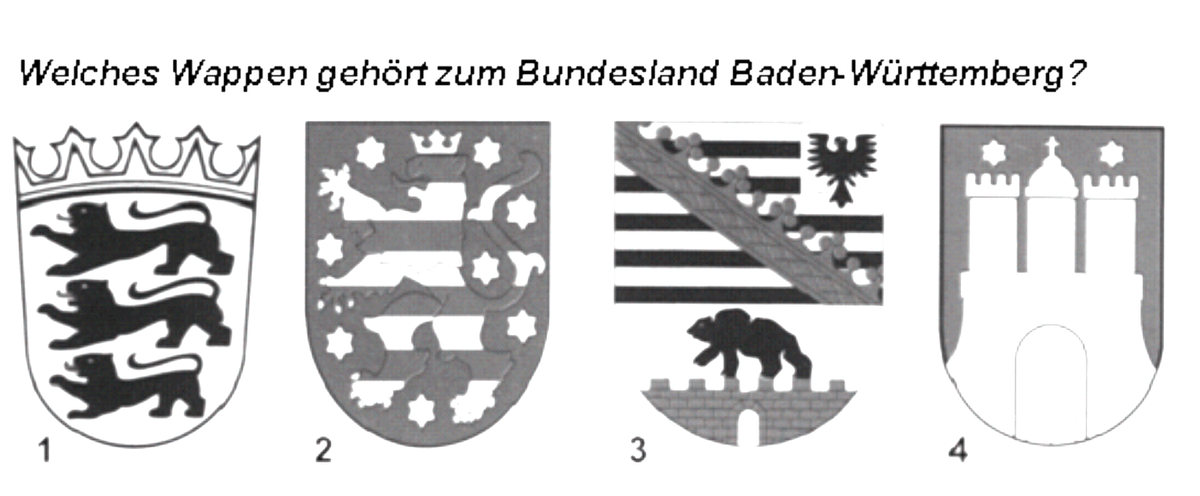
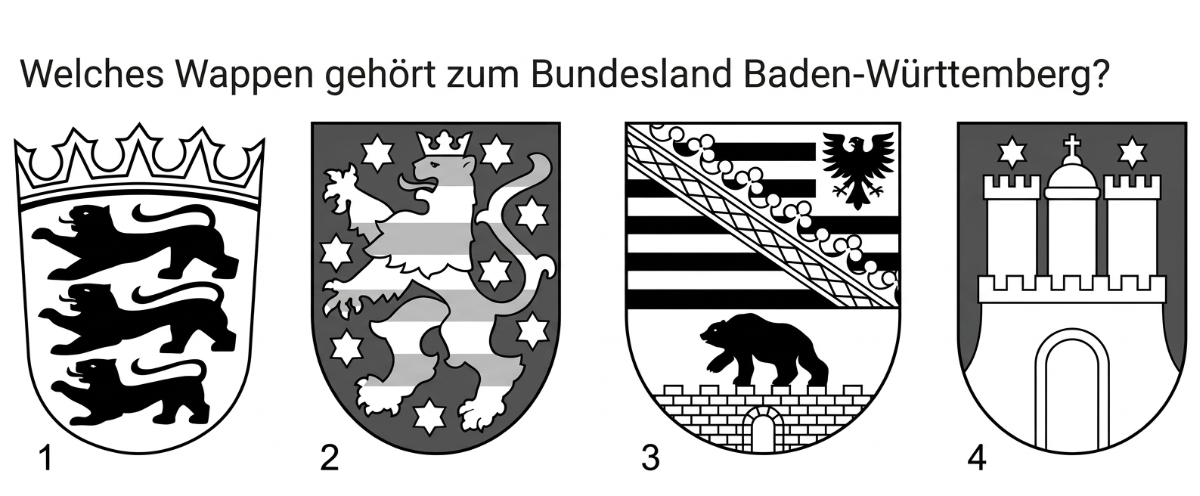
Replace Baden-Wuerttemberg image with corrected redraw

diff --git a/README.md b/README.md
@@ -38,7 +38,7 @@ No web server is required; `data/questions.js`, `data/vocabulary.js` and `data/i
[1 lines of base64/hex data omitted]
   <https://www.bamf.de/SharedDocs/Anlagen/DE/Integration/Einbuergerung/gesamtfragenkatalog-lebenindeutschland.html?nn=284310>
 - **Answers, English translations, explanations and images**: [abdullahbutt/leben-in-deutschland-test](https://github.com/abdullahbutt/leben-in-deutschland-test), version 2026-10-28. **The German question and option wording is taken verbatim from the official BAMF PDF**; the dataset supplies the answer key, English translations, explanations and images. The translations and explanations are licensed under **CC BY-NC 4.0** (attribution, non-commercial use). `data/overrides.json` contains manual corrections for the few items where the dataset described a different paraphrase (e.g. B232, B247, HB02, SN07).
-- **B021, B055, B070, B130, B176, B181, B187, B209, B216, B226 and B235 images**: `data/images/21.png`, `data/images/55.png`, `data/images/70.png`, `data/images/130.png`, `data/images/176.png`, `data/images/181.png`, `data/images/187.png`, `data/images/209.png`, `data/images/216.png`, `data/images/226.png` and `data/images/235.png` are redrawn replacements added for this project; the remaining images come from the dataset.
+- **Redrawn images**: `data/images/21.png`, `data/images/55.png`, `data/images/70.png`, `data/images/130.png`, `data/images/176.png`, `data/images/181.png`, `data/images/187.png`, `data/images/209.png`, `data/images/216.png`, `data/images/226.png`, `data/images/235.png` and `data/images/301-baden-wuerttemberg.png` are redrawn replacements added for this project; the remaining images come from the dataset.
 - This is an independent learning app, not an official BAMF product. Use is intended for personal, non-commercial exam preparation.
 
 ## Project layout
